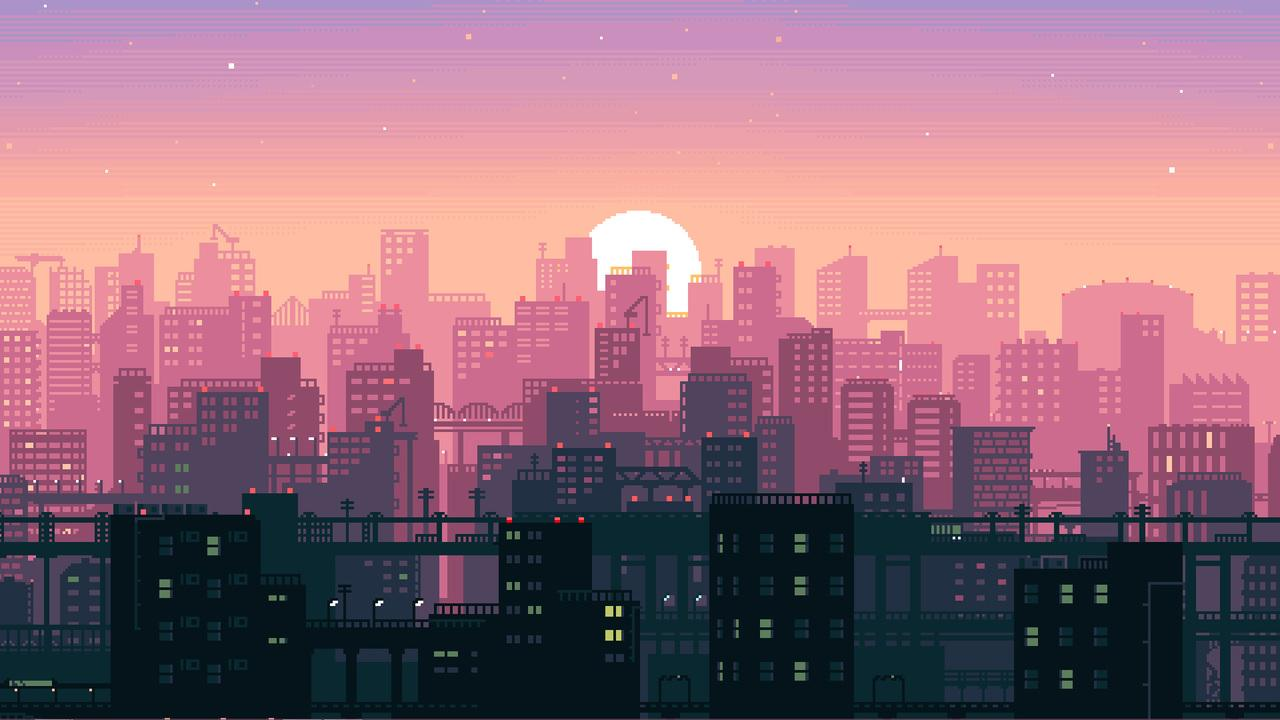
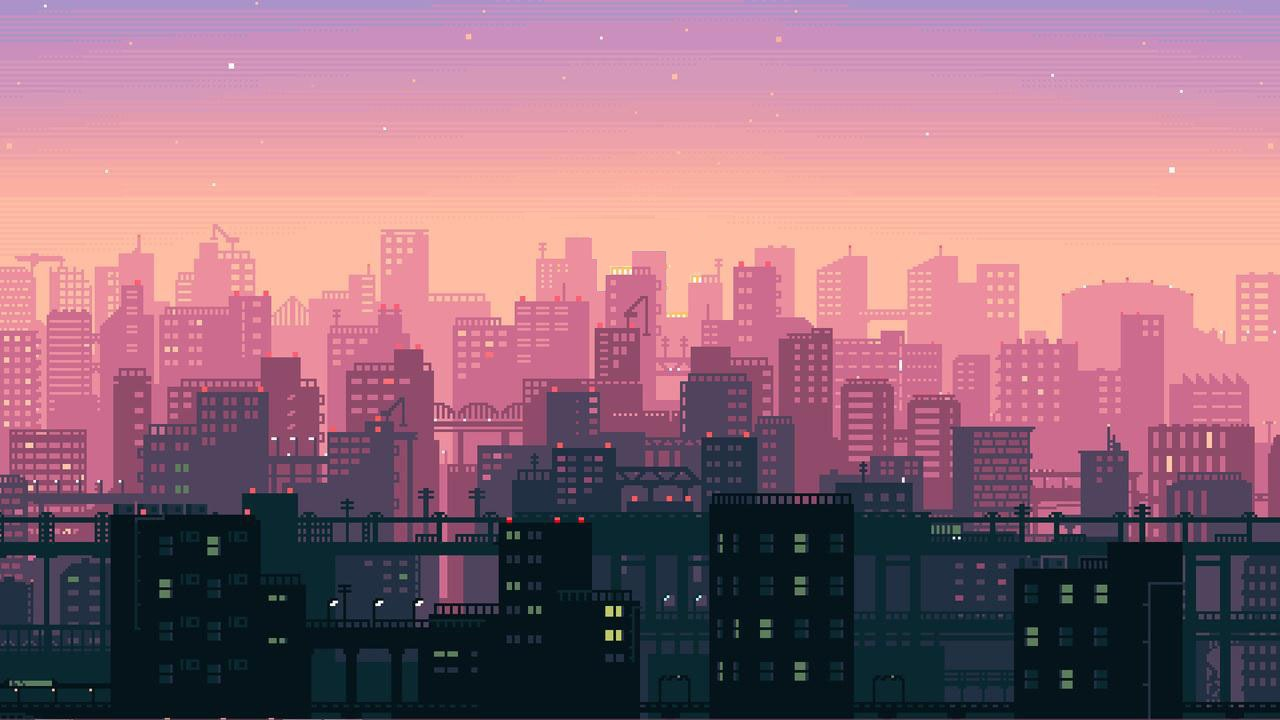
Added moving background:

Changed region(s): [[0.4375, 0.275, 0.5625, 0.4278]]

diff --git a/game/arena.cpp b/game/arena.cpp
@@ -27,17 +27,41 @@ Platform::Platform(int x, int y, int width, int height, QGraphicsItem *parent)
 
 
 
-Arena::Arena(QObject *parent) : QGraphicsScene(parent), background(nullptr) {
-    // Инициализация сцены
+Arena::Arena(QObject *parent) : QGraphicsScene(parent), background(nullptr),
+    xOffset(0),
+    speed(1)
+{
+    background.load(":/images/background.jpg");
+    timer = new QTimer(this);
+    connect(timer, &QTimer::timeout, this, &Arena::updateBackground);
+    timer->start(30); // обновление каждые 30 мс
+}
+
+void Arena::updateBackground() {
+    xOffset += speed;
+    if (xOffset > background.width()) {
+        xOffset -= background.width();
+    }
+    invalidate(); // Перерисовать сцену
+}
+
+void Arena::drawBackground(QPainter* painter, const QRectF& rect) {
+    QRectF source(xOffset, 0, background.width() - xOffset, background.height());
+    QRectF target(0, 0, background.width() - xOffset, background.height());
+    painter->drawImage(target, background, source);
+
+    if (xOffset > 0) {
+        QRectF source2(0, 0, xOffset, background.height());
+        QRectF target2(background.width() - xOffset, 0, xOffset, background.height());
+        painter->drawImage(target2, background, source2);
+    }
 }
 
 void Arena::setupArena(const QSize size) {
     setSceneRect(0, 0, size.width(), size.height());
 
     // Добавление фонового изображения
-    QPixmap bgPixmap(":/images/background.jpg");
-    background = addPixmap(bgPixmap);
-    background->setZValue(-1);
+    //QPixmap bgPixmap(":/images/background.jpg");
 
     // Добавление платформ
     addPlatform(100, 600, 1080, 20); // Главная платформа

diff --git a/game/arena.h b/game/arena.h
@@ -9,7 +9,9 @@
 #include <QGraphicsDropShadowEffect>
 #include <QVector>
 #include <QRectF>
+#include <QPainter>
 #include <QPair>
+#include <QTimer>
 
 class Platform : public QGraphicsPathItem {
 public:
@@ -22,15 +24,25 @@ class Arena : public QGraphicsScene
 public:
     explicit Arena(QObject *parent = nullptr);
     void setupArena(const QSize size={1280, 720});
+
+    void updateBackground();
+
     QVector<QRectF> getPlatforms();
     QPair<qreal, qreal> initPos1();
     QPair<qreal, qreal> initPos2();
+
+protected:
+    void drawBackground(QPainter* painter, const QRectF& rect) override;
 
 private:
     void addPlatform(qreal x, qreal y, qreal width, qreal height);
 
     QVector<QRectF> platforms;
-    QGraphicsPixmapItem *background;
+
+    QImage background;
+    QTimer *timer;
+    int xOffset;
+    int speed;
 };
 
 #endif // ARENA_H
